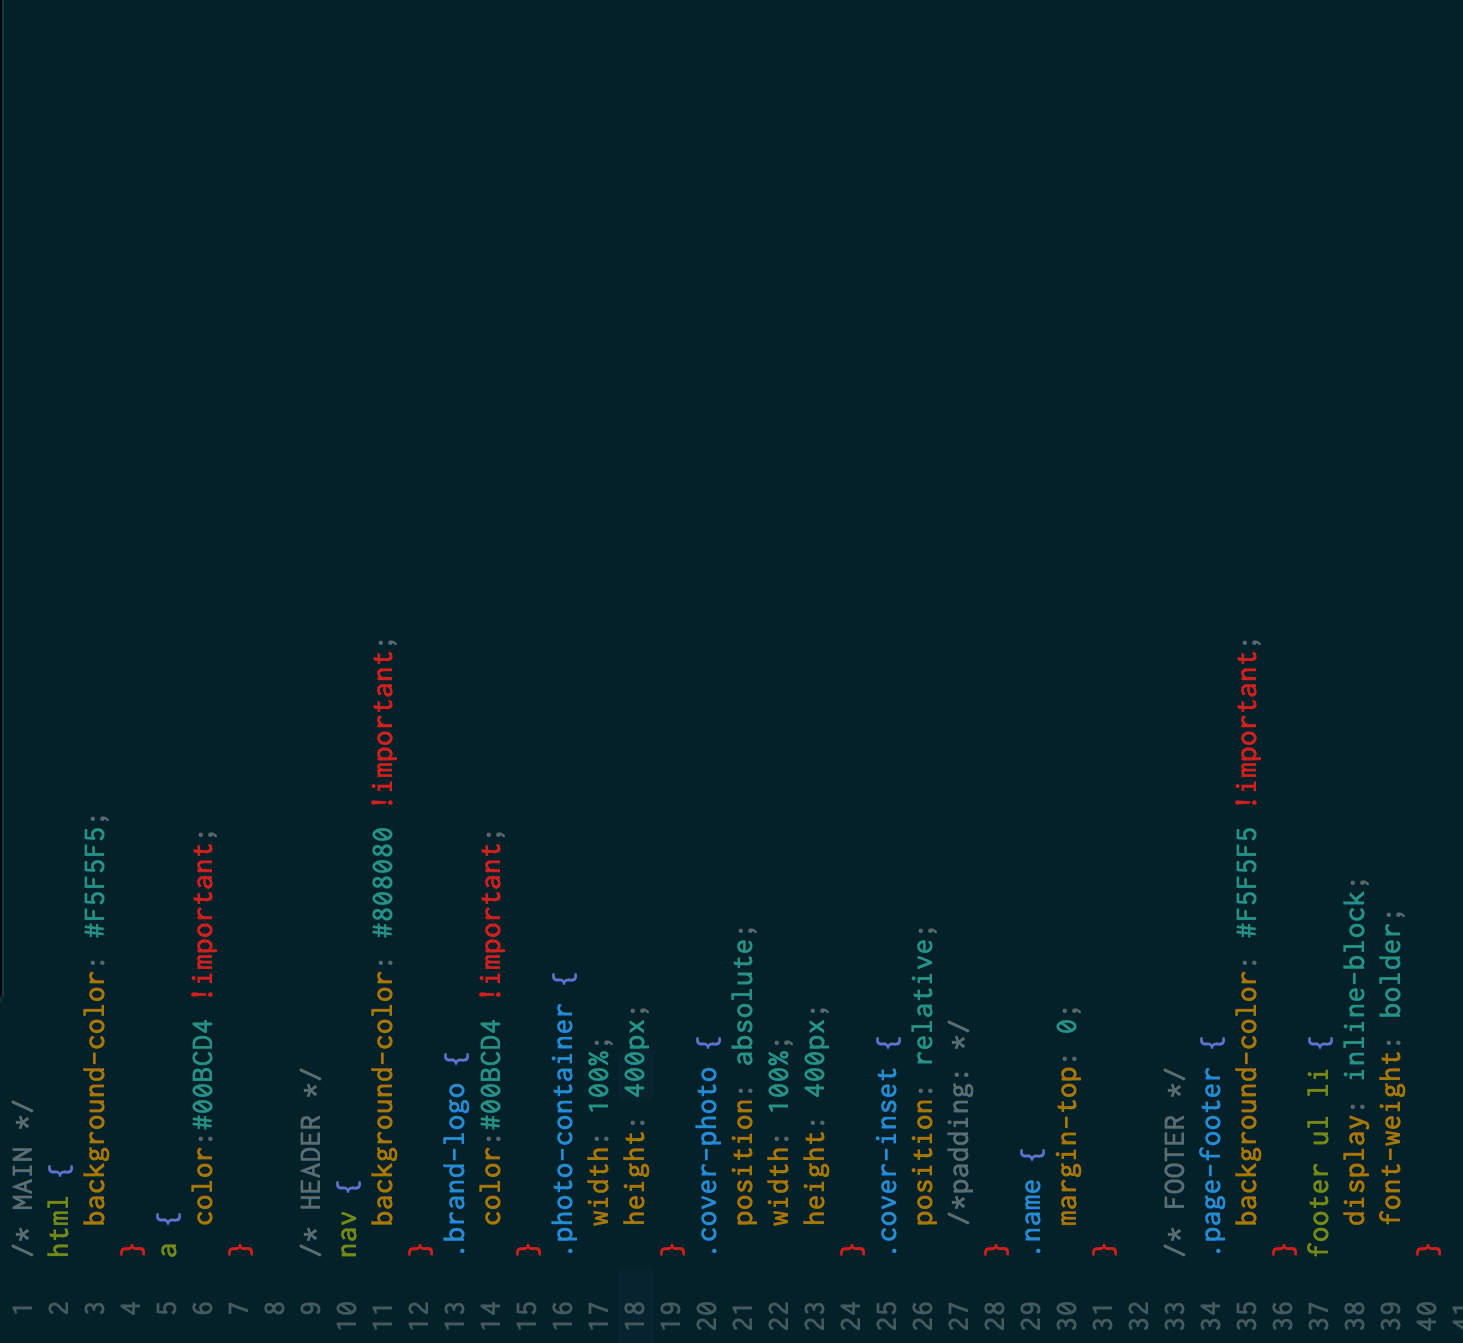
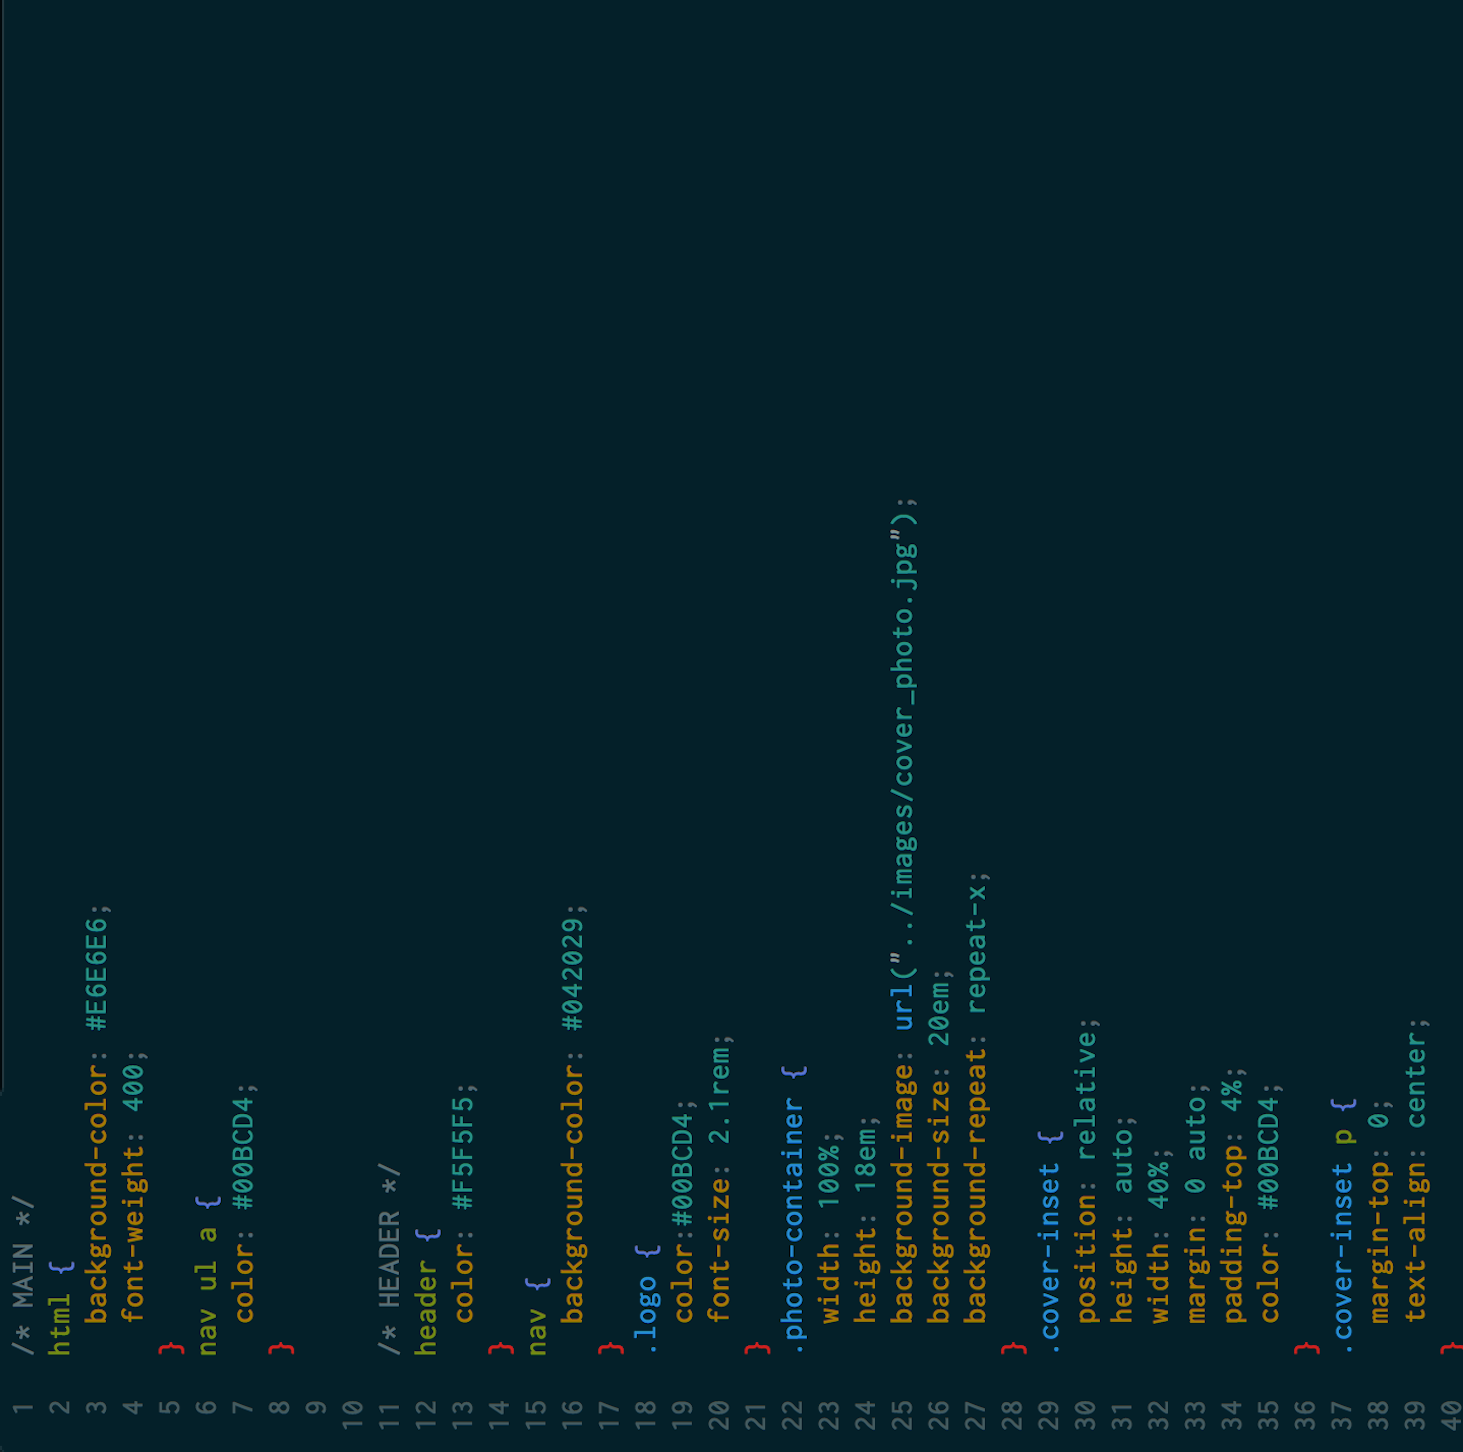
Move blog stylesheets into blog directory; Update cover photo; Correct stylesheet

diff --git a/stylesheets/default.css b/stylesheets/default.css
@@ -3,8 +3,8 @@ html {
 	background-color: #E6E6E6;
 	font-weight: 400;
 }
-a {
-	color: #00BCD4 !important;
+nav ul a {
+	color: #00BCD4;
 }
 
 
@@ -13,17 +13,17 @@ header {
 	color: #F5F5F5;
 }
 nav {
-	background-color: #042029 !important;
+	background-color: #042029;
 }
 .logo {
-	color:#00BCD4 !important;
+	color:#00BCD4;
 	font-size: 2.1rem;
 }
 .photo-container {
 	width: 100%;
 	height: 18em;
 	background-image: url("../images/cover_photo.jpg");
-	background-size: 20em;
+	background-size: 18.3em;
   background-repeat: repeat-x;
 }
 .cover-inset {
@@ -58,7 +58,7 @@ nav {
 	padding-bottom: 10%;
 }
 #nav-arrow {
-	background-color: #00BCD4 !important;
+	background-color: #00BCD4;
 	margin-top: 1em;
 }
 .nav-arrow {
@@ -69,7 +69,7 @@ nav {
 
 /* PROJECTS */
 .projects a {
-	color: #007888 !important;
+	color: #007888;
 }
 .projects a:hover {
 	font-style: italic;
@@ -87,8 +87,8 @@ img {
 }
 
 /* FOOTER */
-.page-footer {
-	background-color: #E6E6E6 !important;
+footer.page-footer {
+	background-color: #E6E6E6;
 }
 footer ul li {
 	display: inline-block;

diff --git a/index.html b/index.html
@@ -4,9 +4,9 @@
     <meta charset="utf-8">
     <meta name="viewport" content="width=device-width, initial-scale=1.0"/>
     <title>christine.hager</title>
-    <link rel="stylesheet" type="text/css" href="./stylesheets/default.css">
     <link rel="stylesheet" href="https://cdnjs.cloudflare.com/ajax/libs/materialize/0.97.0/css/materialize.min.css">
     <link rel="stylesheet" href="https://fonts.googleapis.com/icon?family=Material+Icons">
+    <link rel="stylesheet" type="text/css" href="./stylesheets/default.css">
     <link rel="icon" type="image" href="./images/favicon.ico">
   </head>
 
